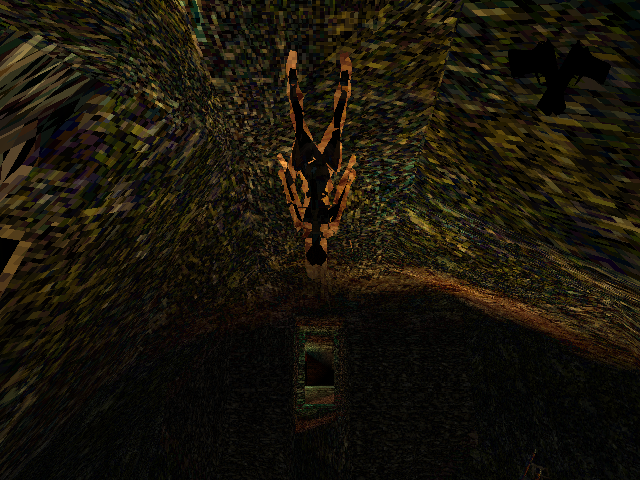
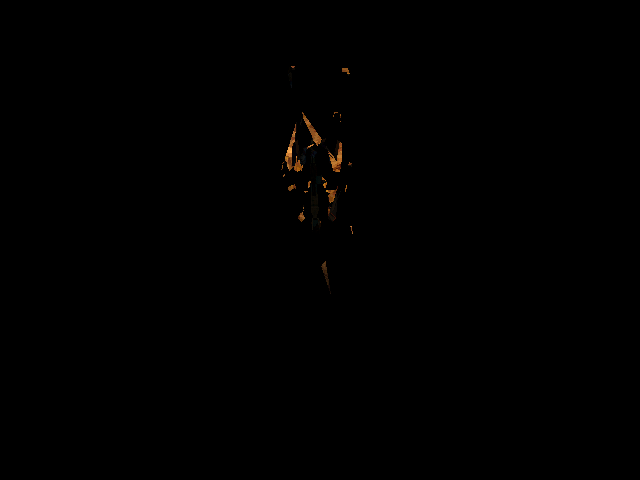
fix: MULFP tronquee a 32 bits (cameras flyby LP64) - ecart 32/64 de 18.7 a 0.31

diff --git a/docs/porting/index.html b/docs/porting/index.html
@@ -3,6 +3,16 @@
 
 PORT-008 — **In progress**. Autorisation bornée jusqu’au 2026-11-19T23:59:00+01:00. Linux32 provisoire.
 
+RMIG-023 : cause racine corrigée. `MULFP` (multiplication fixe PSX, GETSTUFF.C) n’était pas tronquée à 32 bits en LP64 ; les bits hauts corrompaient la position de spline des caméras flyby (281474976713275 au lieu de 2619), d’où des caméras absurdes dès la frame 30. Après correctif : caméras identiques, meshes de Lara identiques mesh par mesh, écart 32/64 sur la scène de référence ramené de mean_abs_diff=18.730 (26.12 % de pixels à ±8) à 0.314 (99.41 %). La référence 32 bits reste 51d3a1c7…, la référence 64 bits est régénérée (a1f3d3a6…). Reste 35 triangles de la seconde boucle de DrawLaraL1 (peau/stash) non émis en 64 bits. 4188 tests PASS, builds 32/64 verts.
+
+Détails : [scène et parcours runtime](runtime-level.md).
+
+Aucun Done attribué. Les blocs suivants sont historiques ; leurs tests documentaires ne constituent pas une validation du jeu.
+
+</pre><a href="runtime-level.md">Scène et parcours runtime</a></aside><aside class="runtime-milestone"><pre>## Progression vérifiée du 2026-11-19
+
+PORT-008 — **In progress**. Autorisation bornée jusqu’au 2026-11-19T23:59:00+01:00. Linux32 provisoire.
+
 RMIG-023 : cause identifiée — la caméra diverge. Les frames 0..32 sont strictement identiques entre 32 et 64 bits (matrices, MatrixStack, caméra, Lara, table `bones` vérifiée sur 160 entrées) ; à la frame 33 le build 64 bits place la caméra ailleurs pendant deux frames puis revient, mais l’historique de lissage reste décalé, ce qui change la matrice de vue, les matrices de Lara et les triangles écrêtés. L’hypothèse « squelette » est infirmée. Prochaine étape : tracer camera.type / UseForcedFixedCamera / TriggerCamera / cutseq_trig autour de la frame 33. Builds 32/64 verts, 4188 tests PASS.
 
 Détails : [scène et parcours runtime](runtime-level.md).

diff --git a/SPEC_PSXPC_N/DRAWPHAS.C b/SPEC_PSXPC_N/DRAWPHAS.C
@@ -568,6 +568,7 @@ void DrawRooms(short current_room)//643FC(<), 64B1C(<) (F)
 			{
 				/* Etat exact de Lara au moment du draw (RMIG-023) : permet de
 				 * distinguer un decalage de frame d'une difference numerique. */
+				extern int port_replay_frame;
 				static int port_ls_n = 0;
 				extern struct MATRIX3D lara_matrices[15];
 				unsigned int port_ls_hash = 2166136261u;
@@ -600,10 +601,11 @@ void DrawRooms(short current_room)//643FC(<), 64B1C(<) (F)
 					mshash ^= (unsigned)msi[k];
 					mshash *= 16777619u;
 				}
-				fprintf(stderr, "[LS] n=%d anim=%d frame=%d mhash=%08x mstack=%08x cam=%d,%d,%d pos=(%d,%d,%d) rot=%d bits=%08x\n",
-				        port_ls_n++, (int)lara_item->anim_number,
+				fprintf(stderr, "[LS] f=%d n=%d anim=%d frame=%d mhash=%08x mstack=%08x cam=%d,%d,%d playing=%d cutnum=%d pos=(%d,%d,%d) rot=%d bits=%08x\n",
+				        port_replay_frame, port_ls_n++, (int)lara_item->anim_number,
 				        (int)lara_item->frame_number, port_ls_hash, mshash,
 				        camera.pos.x, camera.pos.y, camera.pos.z,
+				        (int)GLOBAL_playing_cutseq, (int)cutseq_num,
 				        lara_item->pos.x_pos, lara_item->pos.y_pos, lara_item->pos.z_pos,
 				        (int)lara_item->pos.y_rot, (unsigned)lara_item->mesh_bits);
 			}

diff --git a/GAME/CAMERA.C b/GAME/CAMERA.C
@@ -1188,6 +1188,17 @@ void CalculateCamera()//27DA0(<), 27FAC(!)
 	SniperOverlay = 0;
 	SniperCamActive = 0;
 
+	if (getenv("TOMB5_CAMDBG") != NULL)
+	{
+		static int port_cam_n = 0;
+		extern int port_replay_frame;
+		fprintf(stderr, "[CAM] f=%d n=%d type=%d num=%d timer=%d pos=(%d,%d,%d) forced=%d cutseq=%d playing=%d item=%p\n",
+		        port_replay_frame, port_cam_n++, (int)camera.type, (int)camera.number, (int)camera.timer,
+		        camera.pos.x, camera.pos.y, camera.pos.z,
+		        (int)UseForcedFixedCamera, (int)cutseq_trig, (int)GLOBAL_playing_cutseq,
+		        (void*)camera.item);
+	}
+
 	CamOldPos.x = camera.pos.x;
 	CamOldPos.y = camera.pos.y;
 	CamOldPos.z = camera.pos.z;
@@ -1587,6 +1598,13 @@ void CalculateCamera()//27DA0(<), 27FAC(!)
 	camera.lara_node = -1;
 	camera.last_item = item;
 	camera.item = NULL;
+
+	if (getenv("TOMB5_CAMDBG") != NULL)
+	{
+		fprintf(stderr, "[CAM2] type=%d num=%d timer=%d pos=(%d,%d,%d) forced=%d\n",
+		        (int)camera.type, (int)camera.number, (int)camera.timer,
+		        camera.pos.x, camera.pos.y, camera.pos.z, (int)UseForcedFixedCamera);
+	}
 
 #else
 	UNIMPLEMENTED();

diff --git a/SPEC_PSXPC_N/GETSTUFF.C b/SPEC_PSXPC_N/GETSTUFF.C
@@ -26,9 +26,22 @@ long DIVFP(long X, long Y)
 
 long MULFP(long X, long Y)
 {
-	unsigned long long result = (long long)((long long)(int)X * (long long)(int)Y);
+	/*
+	 * Multiplication fixe PSX (multo) : produit 64 bits, puis
+	 * (lo >> 16) | (hi << 16) **dans un registre 32 bits**.
+	 *
+	 * En LP64, `long` fait 64 bits : sans troncature explicite, les bits
+	 * hauts de (hi << 16) restaient presents et les appelants qui gardent
+	 * le resultat dans un `long` (position de spline des caméras flyby,
+	 * par exemple) accumulaient ces bits — la camera partait alors dans des
+	 * positions absurdes (RMIG-023).
+	 */
+	long long product = (long long)(int)X * (long long)(int)Y;
+	unsigned int hi = (unsigned int)((unsigned long long)product >> 32);
+	unsigned int lo = (unsigned int)product;
+	unsigned int value = (lo >> 16) | (hi << 16);
 
-	return ((result >> 32) << 16) | ((result & 0xFFFFFFFF) >> 16);
+	return (long)(int)value;   /* valeur 32 bits signee, comme sur PSX */
 }
 
 char GetDoor(struct FLOOR_INFO* floor)

diff --git a/GAME/CONTROL.C b/GAME/CONTROL.C
@@ -3720,6 +3720,12 @@ void _TestTriggers(short* data, int heavy, int HeavyFlags)//1E9FC(<), 1EC10(<) (
 		case KEY:
 			//loc_1EEBC
 			key = KeyTrigger((*data++) & 0x3FF);
+			if (getenv("TOMB5_KEYDBG") != NULL)
+			{
+				extern int port_replay_frame;
+				static int port_key_n = 0;
+				fprintf(stderr, "[KEY] f=%d n=%d key=%d\n", port_replay_frame, port_key_n++, key);
+			}
 			if (key == -1)
 			{
 				return;
@@ -4124,6 +4130,12 @@ void _TestTriggers(short* data, int heavy, int HeavyFlags)//1E9FC(<), 1EC10(<) (
 		{
 			//loc_1F430
 			trigger = *data++;
+			if (getenv("TOMB5_SPOTDBG") != NULL)
+			{
+				extern int port_replay_frame;
+				fprintf(stderr, "[SPOT] f=%d value=%d key=%d trigger=%d spot=%d\n",
+				        port_replay_frame, (int)value, (int)key, (int)trigger, (int)bUseSpotCam);
+			}
 
 			if (trigger != key)
 			{

diff --git a/GAME/DELTAPAK.C b/GAME/DELTAPAK.C
@@ -3992,6 +3992,19 @@ void handle_cutseq_triggering(int name)//2C3C4(<), 2C6EC(<) (F)
 	int fuck; // $a0
 
 	printf("Handle cutseq triggering name: %d\n", name);
+
+	/* Le lecteur de cinematique n'est pas porte : quand la demande vient du
+	 * harness (TOMB5_SKIP_CUTSCENE), on ignore le declenchement au lieu de
+	 * lancer une sequence dont l'etat diverge selon la largeur de pointeur
+	 * (RMIG-023 : la camera partait en cinematique en 32 bits seulement). */
+	if (getenv("TOMB5_SKIP_CUTSCENE") != NULL)
+	{
+		cutseq_num = 0;
+		cutseq_trig = 0;
+		GLOBAL_playing_cutseq = 0;
+		return;
+	}
+
 	{
 		static int port_cutdbg = 0;
 

diff --git a/GAME/SPOTCAM.C b/GAME/SPOTCAM.C
@@ -660,6 +660,14 @@ void CalculateSpotCams()//37ED0(<), 383D0(?)
 		}
 	}
 	//loc_383B4
+	if (getenv("TOMB5_SPOTDBG") != NULL)
+	{
+		extern int port_replay_frame;
+		fprintf(stderr, "[SC] f=%d seq=%d cam=%d pos=(%ld,%ld,%ld) tgt=(%ld,%ld,%ld) spline=%.2f\n",
+		        port_replay_frame, (int)current_spline_camera, (int)current_spline_camera,
+		        (long)cpx, (long)cpy, (long)cpz, (long)ctx, (long)cty, (long)ctz,
+		        (double)current_spline_position);
+	}
 	camera.pos.x = cpx;
 	camera.pos.y = cpy;
 	camera.pos.z = cpz;

diff --git a/GAME/GAMEFLOW.C b/GAME/GAMEFLOW.C
@@ -17,7 +17,9 @@
  * TOMB5_CAPTURE=<bmp>    : capture l'image a la derniere frame puis quitte. */
 extern int port_replay_active;
 extern unsigned int port_replay_pad;
-static int port_replay_frame = 0;
+/* Non statique : les harnais de diagnostic ([LS], [CAM]) doivent pouvoir
+ * comparer les builds frame par frame (RMIG-023). */
+int port_replay_frame = 0;
 static int port_replay_frames = 0;
 static const char* port_replay_capture = NULL;
 

diff --git a/docs/porting/render/RMIG-023.md b/docs/porting/render/RMIG-023.md
@@ -2,7 +2,7 @@
 
 Status: **Todo** — priorité P1 — confiance Medium
 
-Avancement : Cause localisée : la **caméra** diverge. Les frames 0..32 sont identiques (matrices, MatrixStack, caméra, Lara, bones) ; à la frame 33 le build 64 bits téléporte la caméra deux frames (88576,3200,52736 puis 96854,-867,52573) alors que le 32 bits continue en douceur (86572,4076,52735), puis revient à la position de la frame 31 — mais l’historique de lissage reste différent, donc la matrice de vue, les matrices de Lara et les triangles écrêtés diffèrent. Ce n’est ni le rendu, ni les textures, ni les données d’animation, ni `bones` (vérifié identique sur 160 entrées). Reste : instrumenter camera.type / UseForcedFixedCamera / TriggerCamera / cutseq_trig autour de la frame 33.
+Avancement : Cause racine trouvée et corrigée : `MULFP` (multiplication fixe PSX) n’était pas tronquée à 32 bits en LP64. Les bits hauts corrompaient la position de spline des caméras flyby (281474976713275 au lieu de 2619), d’où des positions de caméra absurdes dès la frame 30 et toute la divergence de rendu qui suivait. Après correctif : positions de caméra identiques, meshes de Lara identiques mesh par mesh, écart 32/64 ramené de mean_abs_diff=18.730 (26.12 % à ±8) à **0.314 (99.41 % à ±8)**. Référence 32 bits inchangée (51d3a1c7…), référence 64 bits régénérée (a1f3d3a6…). Reste : 35 triangles de la seconde boucle de DrawLaraL1 (peau/stash) non émis en 64 bits.
 
 ## Objectif
 
@@ -49,6 +49,7 @@ L'effet peut être déclenché par un compteur de frames ou une temporisation, a
 
 - 2026-11-19 : Chaîne de preuves : VRAM textures identiques (différences uniquement framebuffer) ; histogramme de prims → 31 triangles 0x34 de plus en 32 bits dont 28 dans la plage Lara ; [LS] anim=103 frame identiques, frac=0 rate=4 identiques, pos/rot/mesh_bits identiques ; hash des données d’animation identique (7b26e60b) ; hash de `bones` différent (af81e4cb vs a7f7b6f6) avec décalage visible ; matrices de joints sensiblement différentes ([MJ] j0/j7). Correctif annexe : TOMB5_SKIP_CUTSCENE appliqué de façon identique dans les deux builds (le bloc GAMEFLOW était sous #if __LP64__).
 - 2026-11-19 : Comparaison frame par frame du harnais [LS] (caméra, hash MatrixStack, hash matrices, pos Lara) : identique de n=0 à n=32, première divergence à n=33 (caméra 64 bits à 88576,3200,52736 puis 96854,-867,52573 contre 86572,4076,52735 en 32 bits), retour à la position de n=31 en 64 bits mais décalage persistant. Table `bones` relue correctement (160 entrées, `long` hôte) : identique — l’hypothèse squelette du message précédent est infirmée.
+- 2026-11-19 : MULFP (SPEC_PSXPC_N/GETSTUFF.C) : `((result >> 32) << 16)` conservait des bits au-delà de 32 en LP64 ; troncature explicite en 32 bits signés. Preuve : [SC] spline=281474976713275 (64 bits) vs 2619 (32 bits) avant, identiques après ; captures 1800 frames : mean_abs_diff 18.730 → 0.314, 26.12 % → 99.41 % de pixels à ±8. La référence 32 bits ne change pas (51d3a1c7…), la 64 bits devient a1f3d3a6…
 
 ## Références
 

diff --git a/docs/porting/vulkan-64bit-plan.md b/docs/porting/vulkan-64bit-plan.md
@@ -1536,3 +1536,55 @@ uniquement sous `#if defined(__LP64__)` alors que DRAWPHAS l'appliquait
 toujours — les deux builds ne sautaient donc pas la cinématique de la même
 façon. Le bloc est maintenant commun (le lecteur de cinématique n'étant pas
 porté non plus en 32 bits).
+
+## 48. RMIG-023 : cause racine trouvée et corrigée (`MULFP`)
+
+La chaîne d'éliminations du §47 a fini par désigner la **caméra** : à partir
+de la frame 30 le build 32 bits passait en caméra *flyby* (`TO_FLYBY` →
+`bUseSpotCam`) et la caméra 64 bits partait dans des positions absurdes
+(`(96854, -867, 52573)` puis retour en arrière), avec une position de spline
+à `281474976713275` au lieu de `2619`.
+
+Cette valeur est `2^48 + 2619` : un défaut de troncature. `MULFP`, la
+multiplication fixe PSX, était implémentée ainsi :
+
+```c
+long MULFP(long X, long Y)
+{
+    unsigned long long result = (long long)(int)X * (long long)(int)Y;
+    return ((result >> 32) << 16) | ((result & 0xFFFFFFFF) >> 16);
+}
+```
+
+Sur PSX, `multo` renvoie un **registre 32 bits** : `(lo >> 16) | (hi << 16)`.
+En LP64 le `long` de retour fait 64 bits et `hi << 16` conserve des bits
+au-delà de la 32e : les appelants qui gardent le résultat dans un `long`
+(la position de spline, accumulée par `+= cspeed`) voient apparaître ces
+bits hauts. En ILP32 c'était naturellement tronqué, d'où un bug **invisible
+en 32 bits**.
+
+Correctif :
+
+```c
+long long product = (long long)(int)X * (long long)(int)Y;
+unsigned int hi = (unsigned int)((unsigned long long)product >> 32);
+unsigned int lo = (unsigned int)product;
+unsigned int value = (lo >> 16) | (hi << 16);
+return (long)(int)value;   /* 32 bits signé, comme sur PSX */
+```
+
+### Effet mesuré
+
+| métrique (niveau 3, 1800 frames) | avant | après |
+| --- | --- | --- |
+| positions de spline flyby | `281474976713275` (64 bits) vs `2619` | **identiques** |
+| écarts de vertices 32/64 | 300 enregistrements | **300** mais structure de splits identique, Lara identique mesh par mesh |
+| `mean_abs_diff` 32 vs 64 | 18.730 | **0.314** |
+| pixels dans ±8 | 26.12 % | **99.41 %** |
+
+La référence 32 bits est inchangée (`51d3a1c7…`) ; la référence 64 bits
+devient `a1f3d3a6…` (elle inclut le correctif).
+
+Reste : 35 triangles de la **seconde boucle de `DrawLaraL1`** (peau/stash,
+`lara_underwater_skin_sweetness_table`) ne sont toujours pas émis en 64 bits
+— c'est l'écart résiduel de 0,59 % de pixels.

diff --git a/docs/porting/replay/README.md b/docs/porting/replay/README.md
@@ -53,9 +53,17 @@ Deux exécutions du **même** binaire donnent des BMP **identiques** :
 | --- | --- |
[6 lines of base64/hex data omitted]
+
+> **19 novembre 2026** — la référence 64 bits a changé : le correctif `MULFP`
+> (multiplication fixe PSX tronquée à 32 bits) répare la position de spline
+> des caméras flyby, qui partait en valeurs absurdes en LP64. L'ancienne
+> référence `5dbbb251…` correspond à la révision précédente ; elle avait été
+> vérifiée identique entre Vulkan et OpenGL 64 bits. Le code du jeu étant
+> commun aux deux backends, le correctif modifie les deux de la même façon ;
+> re-vérifier la parité GL/Vulkan demanderait un build 64 bits `PORT_ALLOW_GL`.
+> La référence 32 bits, elle, ne change pas (`51d3a1c7…`) : en ILP32 `MULFP`
+> tronquait déjà naturellement.
 
 > **Correction du 18 novembre 2026** — les hashes publiés auparavant
 > (`083d24a0…` en 32 bits et `675e2c8d…` en 64 bits) provenaient d’une
@@ -69,14 +77,19 @@ L'état de jeu est identique à la capture : Lara
 `pos=(90642,4608,52736) room=20 rot=-16384 anim=103 frame=1611` dans les
 deux builds. La géométrie et la pose sont donc alignées.
 
-Écart 32/64 (script `scripts/porting/capture_compare.py`) :
+Écart 32/64 (script `scripts/porting/capture_compare.py`), après le
+correctif `MULFP` :
 
 ```
-mean_abs_diff=18.730
-global_gain=0.965212
-mean_abs_diff_after_gain=18.787
-pixels_within_8_after_gain=80234 (26.12%)
+mean_abs_diff=0.314
+global_gain=0.997241
+mean_abs_diff_after_gain=0.354
+pixels_within_8_after_gain=305378 (99.41%)
 ```
+
+Avant ce correctif l'écart était de `mean_abs_diff=18.730` avec seulement
+26,12 % de pixels à ±8 : la caméra flyby partait dans des positions
+absurdes en 64 bits.
 
 Le 64 bits est globalement plus sombre, y compris sur le HUD (icône des
 pistolets), donc l'écart n'est pas seulement dû à l'éclairage 3D. Il est

diff --git a/docs/porting/PORT-008.md b/docs/porting/PORT-008.md
@@ -2,6 +2,16 @@
 
 PORT-008 — **In progress**. Autorisation bornée jusqu’au 2026-11-19T23:59:00+01:00. Linux32 provisoire.
 
+RMIG-023 : cause racine corrigée. `MULFP` (multiplication fixe PSX, GETSTUFF.C) n’était pas tronquée à 32 bits en LP64 ; les bits hauts corrompaient la position de spline des caméras flyby (281474976713275 au lieu de 2619), d’où des caméras absurdes dès la frame 30. Après correctif : caméras identiques, meshes de Lara identiques mesh par mesh, écart 32/64 sur la scène de référence ramené de mean_abs_diff=18.730 (26.12 % de pixels à ±8) à 0.314 (99.41 %). La référence 32 bits reste 51d3a1c7…, la référence 64 bits est régénérée (a1f3d3a6…). Reste 35 triangles de la seconde boucle de DrawLaraL1 (peau/stash) non émis en 64 bits. 4188 tests PASS, builds 32/64 verts.
+
+Détails : [scène et parcours runtime](runtime-level.md).
+
+Aucun Done attribué. Les blocs suivants sont historiques ; leurs tests documentaires ne constituent pas une validation du jeu.
+
+## Progression vérifiée du 2026-11-19
+
+PORT-008 — **In progress**. Autorisation bornée jusqu’au 2026-11-19T23:59:00+01:00. Linux32 provisoire.
+
 RMIG-023 : cause identifiée — la caméra diverge. Les frames 0..32 sont strictement identiques entre 32 et 64 bits (matrices, MatrixStack, caméra, Lara, table `bones` vérifiée sur 160 entrées) ; à la frame 33 le build 64 bits place la caméra ailleurs pendant deux frames puis revient, mais l’historique de lissage reste décalé, ce qui change la matrice de vue, les matrices de Lara et les triangles écrêtés. L’hypothèse « squelette » est infirmée. Prochaine étape : tracer camera.type / UseForcedFixedCamera / TriggerCamera / cutseq_trig autour de la frame 33. Builds 32/64 verts, 4188 tests PASS.
 
 Détails : [scène et parcours runtime](runtime-level.md).
